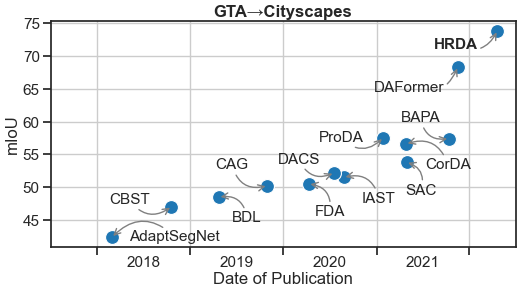
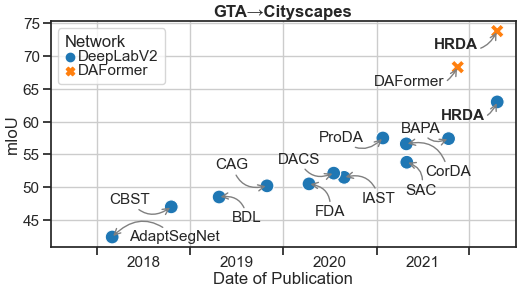
Add HRDA w/ DeepLabV2

diff --git a/experiments.py b/experiments.py
@@ -360,6 +360,7 @@ def generate_experiment_cfgs(id):
         gta2cs = ('gtaHR',     'cityscapesHR', '1024x1024', 0.5 * (2 ** 2))
         syn2cs = ('synthiaHR', 'cityscapesHR', '1024x1024', 0.5 * (2 ** 2))
         dec, backbone = 'daformer_sepaspp', 'mitb5'
+        # dec, backbone = 'dlv2red', 'r101v1c'
         uda, rcs_T, plcrop = 'dacs_a999_fdthings', 0.01, 'v2'
         inference = 'slide'
         for dataset, architecture, sync_crop_size in [
@@ -387,7 +388,13 @@ def generate_experiment_cfgs(id):
             ('gtaCAugHR',   'cityscapesHR', '1024x1024',    f'{hrda}_dlv2red',  'r101v1c', 'minent', sgd),
             ('gta',         'cityscapes',   '512x512',      'dlv2red',          'r101v1c', 'dacs',   adamw),
             ('gtaHR',       'cityscapesHR', '1024x1024',    f'{hrda}_dlv2red',  'r101v1c', 'dacs',   adamw),
+            ('gta',         'cityscapes',   '512x512',      'dlv2red',          'r101v1c', 'daformer_uda',   adamw),
+            ('gtaHR',       'cityscapesHR', '1024x1024',    f'{hrda}_dlv2red',  'r101v1c', 'daformer_uda',   adamw),
         ]:
+            if uda == 'daformer_uda':
+                uda, rcs_T, plcrop = 'dacs_a999_fdthings', 0.01, 'v2'
+                if crop == '1024x1024':
+                    rcs_min_crop = 0.5 * (2 ** 2)
             for seed in seeds:
                 opt, lr, schedule, pmult = opt_hp
                 gpu_model = 'NVIDIATITANRTX' if 'HR' in source \
